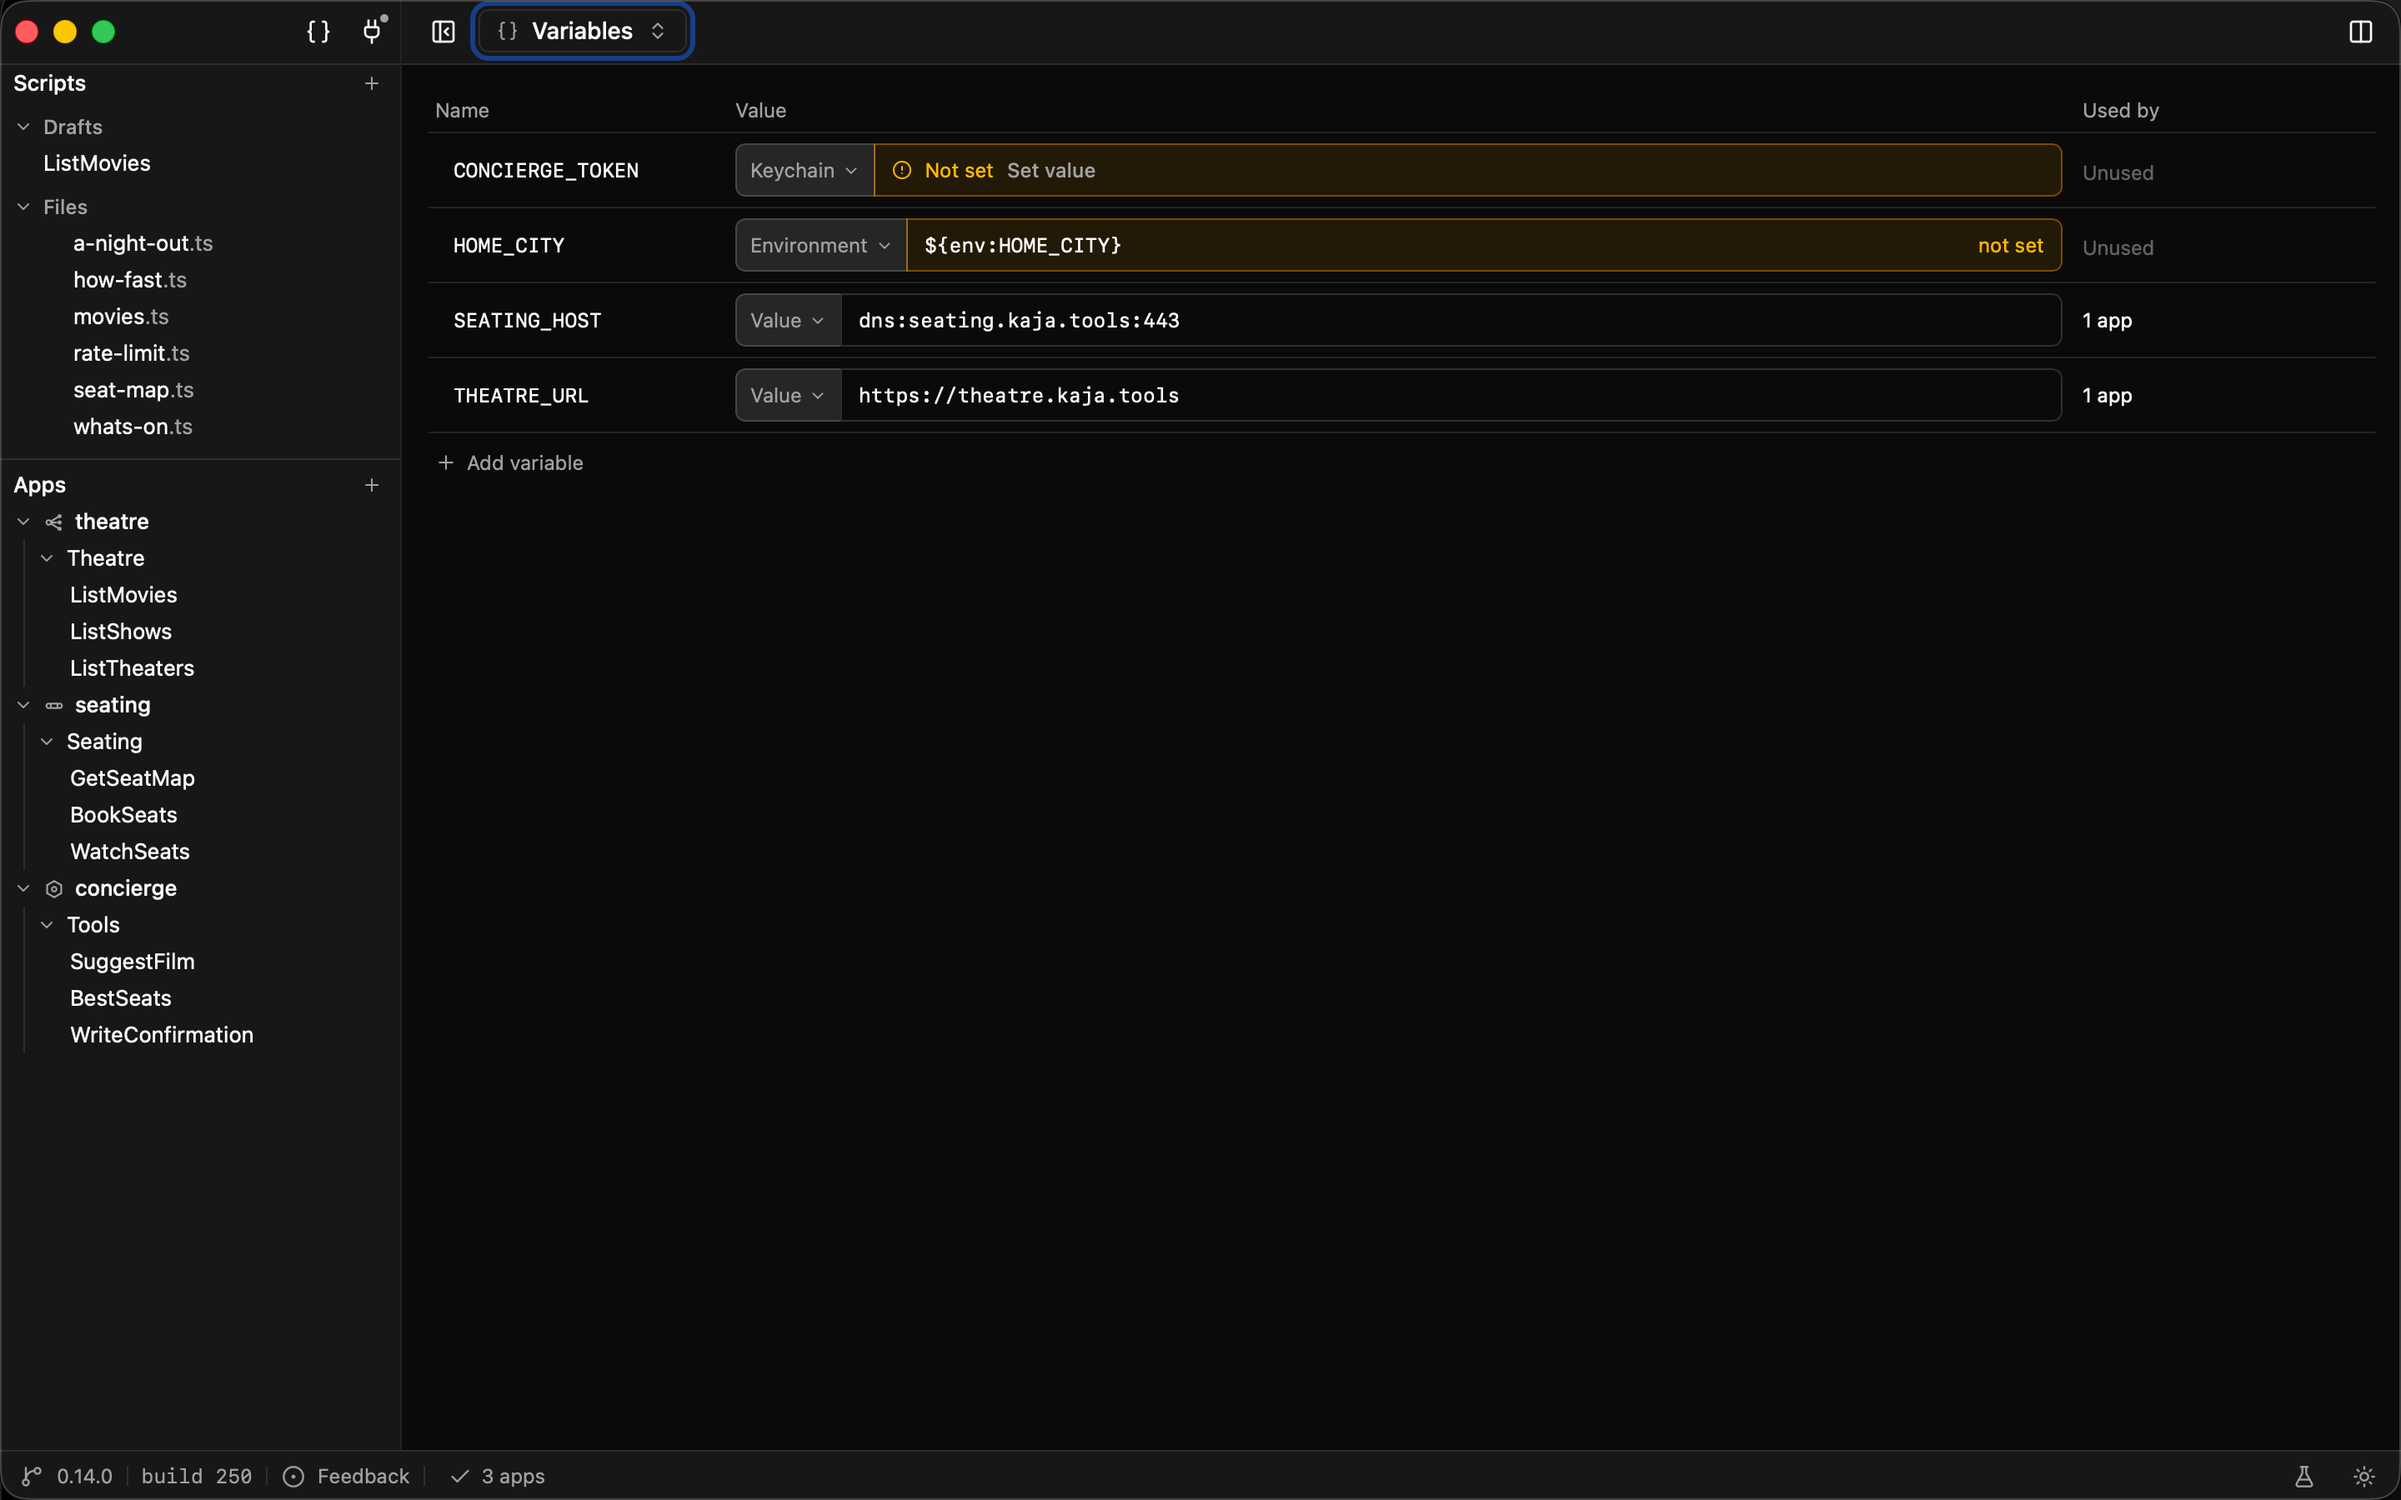
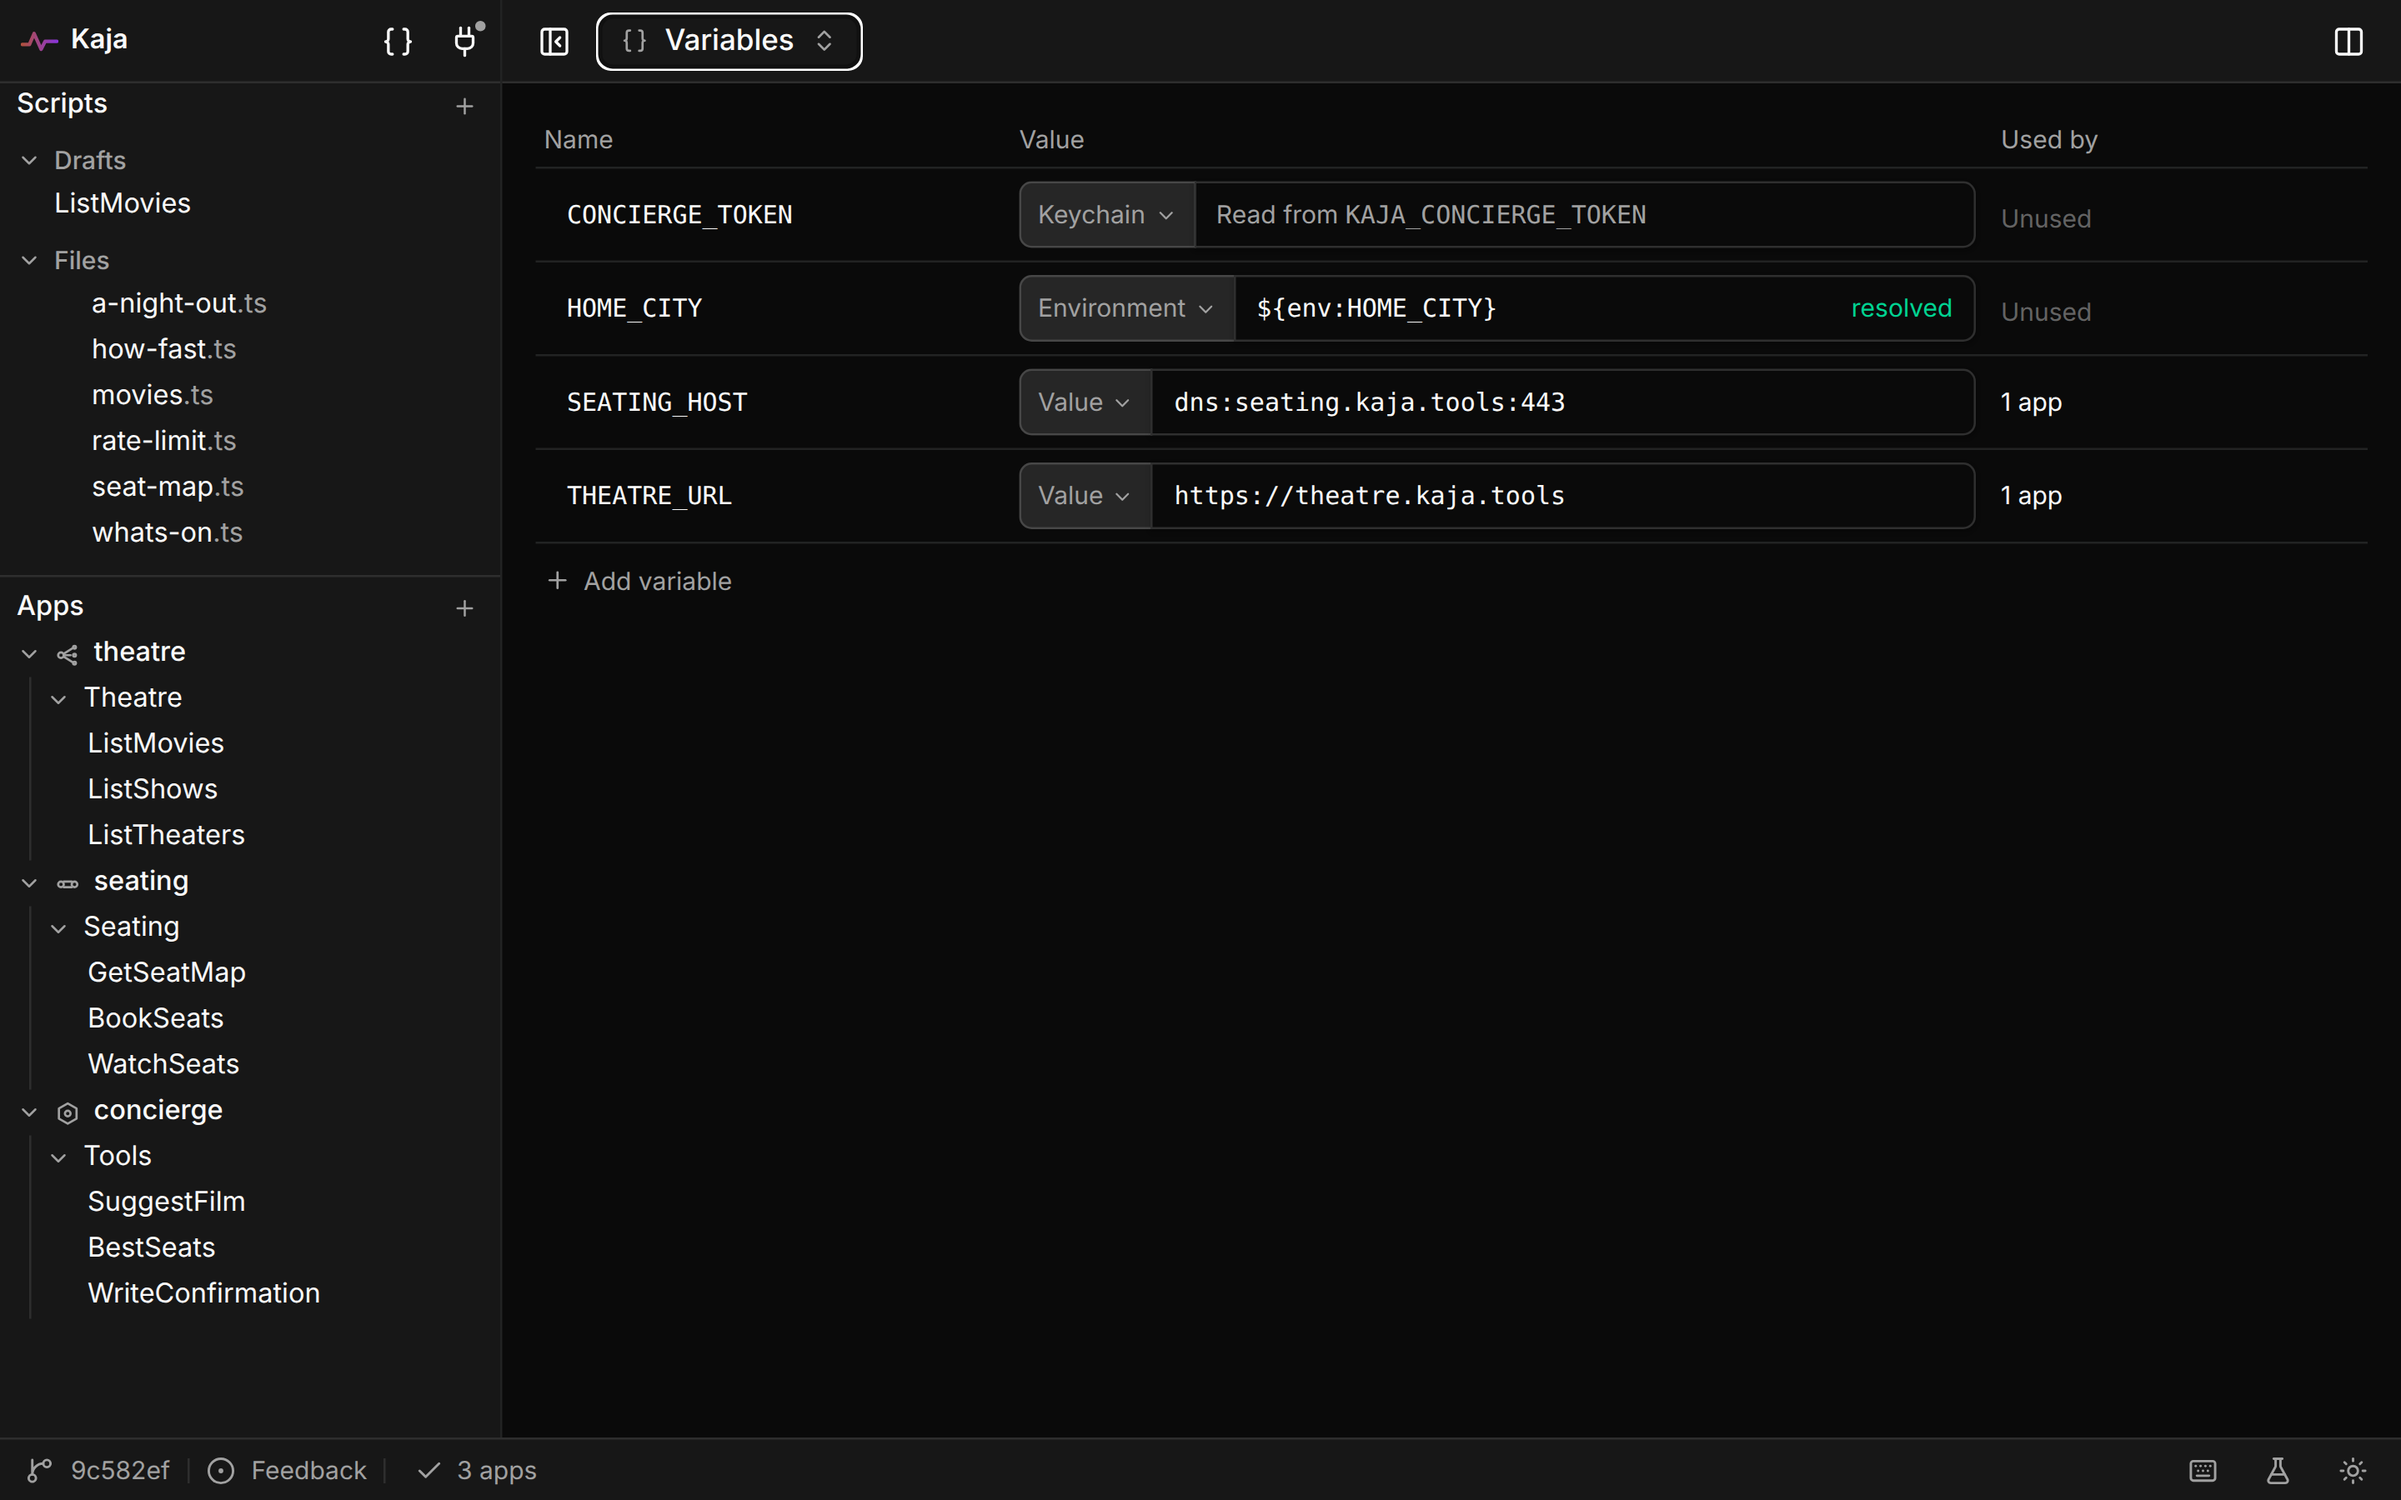
Retake the screenshots at 125% zoom (#83)

diff --git a/home/src/data/poster.ts b/home/src/data/poster.ts
@@ -44,8 +44,8 @@ export const manual: Item[] = [
   {
     caption: "Every app, service and method in one tree.",
     shot: shots.apps,
-    crop: { x: 0.005, y: 0.28, w: 0.163, h: 0.368 },
-    highlight: { x: 0.006, y: 0.337, w: 0.745, h: 0.337 },
+    crop: { x: 0.006, y: 0.35, w: 0.2, h: 0.46 },
+    highlight: { x: 0.006, y: 0.352, w: 0.62, h: 0.33 },
     cropCell: "md:col-start-8 md:col-end-13 md:row-start-1",
     statementCell: "md:col-start-1 md:col-end-7 md:row-start-1",
     align: "left",
@@ -54,8 +54,8 @@ export const manual: Item[] = [
   {
     caption: "Pick a method and Kaja writes the call, typed.",
     shot: shots.draft,
-    crop: { x: 0.17, y: 0.05, w: 0.45, h: 0.1 },
-    highlight: { x: 0.083, y: 0.492, w: 0.739, h: 0.232 },
+    crop: { x: 0.212, y: 0.062, w: 0.56, h: 0.125 },
+    highlight: { x: 0.085, y: 0.49, w: 0.87, h: 0.235 },
     cropCell: "md:col-start-1 md:col-end-13 md:row-start-2",
     statementCell: "md:col-start-1 md:col-end-9 md:row-start-1",
     align: "left",
@@ -68,8 +68,8 @@ export const record: Item[] = [
   {
     caption: "Status, duration and size on every call.",
     shot: shots.run,
-    crop: { x: 0.17, y: 0.18, w: 0.82, h: 0.1 },
-    highlight: { x: 0.802, y: 0.688, w: 0.122, h: 0.224 },
+    crop: { x: 0.212, y: 0.225, w: 0.788, h: 0.145 },
+    highlight: { x: 0.725, y: 0.74, w: 0.175, h: 0.2 },
     cropCell: "md:col-start-1 md:col-end-13 md:row-start-1",
     statementCell: "md:col-start-4 md:col-end-13 md:row-start-2",
     align: "right",
@@ -78,8 +78,8 @@ export const record: Item[] = [
   {
     caption: "The response, as it came back.",
     shot: shots.run,
-    crop: { x: 0.17, y: 0.28, w: 0.34, h: 0.24 },
-    highlight: { x: 0.118, y: 0.273, w: 0.559, h: 0.68 },
+    crop: { x: 0.212, y: 0.35, w: 0.425, h: 0.32 },
+    highlight: { x: 0.11, y: 0.25, w: 0.66, h: 0.7 },
     cropCell: "md:col-start-7 md:col-end-13 md:row-start-1",
     statementCell: "md:col-start-1 md:col-end-6 md:row-start-1",
     align: "left",
@@ -93,7 +93,7 @@ export const agents: Item[] = [
   {
     caption: "Turn the server on, then give your agent the endpoint and the token.",
     shot: shots.agent,
-    crop: { x: 0.175, y: 0.06, w: 0.82, h: 0.115 },
+    crop: { x: 0.219, y: 0.075, w: 0.781, h: 0.144 },
     highlight: { x: 0.02, y: 0.57, w: 0.532, h: 0.237 },
     cropCell: "md:col-start-1 md:col-end-13 md:row-start-1",
     statementCell: "md:col-start-4 md:col-end-13 md:row-start-2",
@@ -103,7 +103,7 @@ export const agents: Item[] = [
   {
     caption: "Pick your agent and copy the line it needs.",
     shot: shots.agent,
-    crop: { x: 0.178, y: 0.18, w: 0.135, h: 0.33 },
+    crop: { x: 0.222, y: 0.225, w: 0.169, h: 0.412 },
     highlight: { x: 0.037, y: 0.109, w: 0.881, h: 0.868 },
     cropCell: "md:col-start-9 md:col-end-13 md:row-start-1",
     statementCell: "md:col-start-1 md:col-end-8 md:row-start-1",
@@ -118,7 +118,7 @@ export const features: Item[] = [
   {
     caption: "Try a script as a draft, then save it to a file when it works.",
     shot: shots.draft,
-    crop: { x: 0.005, y: 0.045, w: 0.163, h: 0.255 },
+    crop: { x: 0.006, y: 0.056, w: 0.2, h: 0.319 },
     highlight: { x: 0.03, y: 0.112, w: 0.9, h: 0.188 },
     cropCell: "md:col-start-1 md:col-end-6 md:row-start-1",
     statementCell: "md:col-start-7 md:col-end-13 md:row-start-1",
@@ -128,8 +128,8 @@ export const features: Item[] = [
   {
     caption: "Draw the results as a table, and the script pages the rows itself.",
     shot: shots.canvas,
-    crop: { x: 0.02, y: 0.06, w: 0.96, h: 0.16 },
-    highlight: { x: 0.859, y: 0.105, w: 0.135, h: 0.205 },
+    crop: { x: 0.02, y: 0.075, w: 0.96, h: 0.2 },
+    highlight: { x: 0.855, y: 0.06, w: 0.14, h: 0.18 },
     cropCell: "md:col-start-1 md:col-end-13 md:row-start-2",
     statementCell: "md:col-start-5 md:col-end-13 md:row-start-1",
     align: "right",
@@ -138,7 +138,7 @@ export const features: Item[] = [
   {
     caption: "Percentiles computed from the calls the run already made.",
     shot: shots.stats,
-    crop: { x: 0.0, y: 0.005, w: 0.52, h: 0.1 },
+    crop: { x: 0.0, y: 0.006, w: 0.65, h: 0.125 },
     highlight: { x: 0.385, y: 0.414, w: 0.385, h: 0.512 },
     cropCell: "md:col-start-1 md:col-end-13 md:row-start-1",
     statementCell: "md:col-start-5 md:col-end-13 md:row-start-2",
@@ -148,7 +148,7 @@ export const features: Item[] = [
   {
     caption: "Run a load schedule and see which phase every call landed in.",
     shot: shots.stats,
-    crop: { x: 0.005, y: 0.11, w: 0.99, h: 0.34 },
+    crop: { x: 0.006, y: 0.137, w: 0.99, h: 0.425 },
     highlight: { x: 0.173, y: 0.076, w: 0.33, h: 0.334 },
     cropCell: "md:col-start-1 md:col-end-13 md:row-start-2",
     statementCell: "md:col-start-1 md:col-end-9 md:row-start-1",
@@ -158,8 +158,8 @@ export const features: Item[] = [
   {
     caption: "Keep secrets out of scripts with values from the keychain, the environment or the file.",
     shot: shots.variables,
-    crop: { x: 0.175, y: 0.06, w: 0.545, h: 0.24 },
-    highlight: { x: 0.237, y: 0.143, w: 0.141, h: 0.78 },
+    crop: { x: 0.219, y: 0.075, w: 0.681, h: 0.3 },
+    highlight: { x: 0.295, y: 0.12, w: 0.135, h: 0.85 },
     cropCell: "md:col-start-1 md:col-end-7 md:row-start-1",
     statementCell: "md:col-start-8 md:col-end-13 md:row-start-1",
     align: "left",

diff --git a/home/src/data/home.ts b/home/src/data/home.ts
@@ -31,21 +31,21 @@ export const steps: Step[] = [
     title: "Connect your API",
     says: "Browse services and methods from gRPC, OpenAPI, MCP, and Twirp.",
     shot: shots.newApp,
-    crop: { x: 0.346, y: 0.333, w: 0.308, h: 0.335 },
+    crop: { x: 0.304, y: 0.283, w: 0.392, h: 0.434 },
   },
   {
     step: "Run",
     title: "Run it yourself or ask an agent",
     says: "Send one request manually, or let an agent write a typed script for a larger task.",
     shot: shots.run,
-    crop: { x: 0.167, y: 0.0, w: 0.42, h: 0.222 },
+    crop: { x: 0.209, y: 0.0, w: 0.545, h: 0.278 },
   },
   {
     step: "Inspect",
     title: "See exactly what happened",
     says: "Requests, responses, headers, duration, and status stay visible for every run.",
     shot: shots.run,
-    crop: { x: 0.167, y: 0.222, w: 0.45, h: 0.3 },
+    crop: { x: 0.209, y: 0.278, w: 0.5625, h: 0.375 },
   },
 ];
 
@@ -53,7 +53,7 @@ export const steps: Step[] = [
    types a sentence, the agent writes a script, the calls land in the window.
    The third is a strip of the call log rather than the whole console, because
    the claim is about the row, not the response. */
-export const agentCalls: Crop = { x: 0.165, y: 0.19, w: 0.42, h: 0.095 };
+export const agentCalls: Crop = { x: 0.206, y: 0.238, w: 0.525, h: 0.119 };
 
 /* What the record section says in three lines, which is the whole argument
    over an agent that calls an API where you cannot see it. */

diff --git a/home/src/data/shots.ts b/home/src/data/shots.ts
@@ -1,8 +1,10 @@
 /* The screenshots the site is built from, and how a region of one is drawn.
 
-   Every shot is the window at 2880x1800, which is what `scripts/demo`
-   photographs in kaja's own repository. A fresh set replaces the files under
-   the same names, and every crop taken from them still lands.
+   Every shot is the window at 2880x1800, zoomed to 125%, which is what
+   `scripts/demo` photographs in kaja's own repository. The zoom is what puts
+   the pixels into the words: a crop is read smaller than it was taken, so the
+   type has to be taken larger. A fresh set replaces the files under the same
+   names, and every crop taken from them still lands.
 
    A crop is a region of a shot in fractions of its width and height, drawn as
    a background scaled to `100 / w` of the frame's width, which is what makes

diff --git a/CLAUDE.md b/CLAUDE.md
@@ -180,10 +180,11 @@ home/
   than the app's. Below `md` the drawing is too small to read, so the same five
   things are a plain stack of cards.
 - **The eight screenshots are `data/shots.ts`, and every picture on the site
-  is a crop of one.** The shots are the window at 2880x1800, which is what
+  is a crop of one.** The shots are the window at 2880x1800, zoomed to 125%, which is what
   `scripts/demo` photographs in [wham/kaja](https://github.com/wham/kaja); a
   fresh set replaces the files under the same names and every crop still
-  lands. A crop is four fractions drawn as a background by `cropStyle` rather
+  lands. The zoom is what makes a crop legible at the size it is read, so a
+  set taken at 100% is a set every crop is a quarter smaller in. A crop is four fractions drawn as a background by `cropStyle` rather
   than an image file of its own, so a screen contributes as many close-ups as
   it has things to say and nothing under `public/assets/` is a cut-out to
   re-cut.
